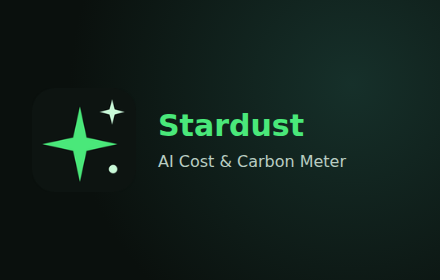
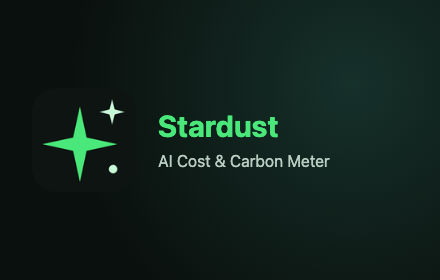
Extension popup: show the version next to the name
Reads it from the manifest (build.mjs copies package.json's version there).
Store screenshots regenerated, so they show it too.

Changed region(s): [[0.3545, 0.4, 0.7091, 0.5143], [0.3545, 0.5429, 0.7977, 0.6]]

diff --git a/subscriber-client/browser-extension/static/popup.html b/subscriber-client/browser-extension/static/popup.html
@@ -9,6 +9,7 @@
     body { margin: 0; width: 320px; background: var(--bg); color: var(--text); font: 13px/1.4 system-ui, sans-serif; }
     header { display: flex; align-items: center; justify-content: space-between; padding: 12px 14px; border-bottom: 1px solid var(--line); }
     header h1 { margin: 0; font-size: 14px; color: var(--accent); letter-spacing: .02em; }
+    #version { font-weight: 400; font-size: 11px; color: var(--muted); }
     section { padding: 10px 14px; border-bottom: 1px solid var(--line); }
     h2 { margin: 0 0 6px; font-size: 11px; font-weight: 600; color: var(--muted); text-transform: uppercase; letter-spacing: .06em; }
     #code { font: 700 26px/1 ui-monospace, monospace; color: var(--accent); }
@@ -28,7 +29,7 @@
   </style>
 </head>
 <body>
-  <header><h1>Stardust</h1><button id="test" title="Send a sample Claude Sonnet 5.5 reply (1,000 tokens in, 250 out) to check the connection">Test</button></header>
+  <header><h1>Stardust <span id="version"></span></h1><button id="test" title="Send a sample Claude Sonnet 5.5 reply (1,000 tokens in, 250 out) to check the connection">Test</button></header>
 
   <section id="site">
     <label class="switch"><span>Measure <strong id="site-name"></strong></span><input type="checkbox" id="site-toggle" /></label>

diff --git a/subscriber-client/browser-extension/src/popup.ts b/subscriber-client/browser-extension/src/popup.ts
@@ -46,6 +46,7 @@ async function renderSummary(apiBase: string): Promise<void> {
 }
 
 async function main(): Promise<void> {
+  $("version").textContent = `v${chrome.runtime.getManifest().version}`;
   const settings = await getSettings();
   const [tab] = await chrome.tabs.query({ active: true, currentWindow: true });
   const host = tab?.url ? new URL(tab.url).hostname : "";
